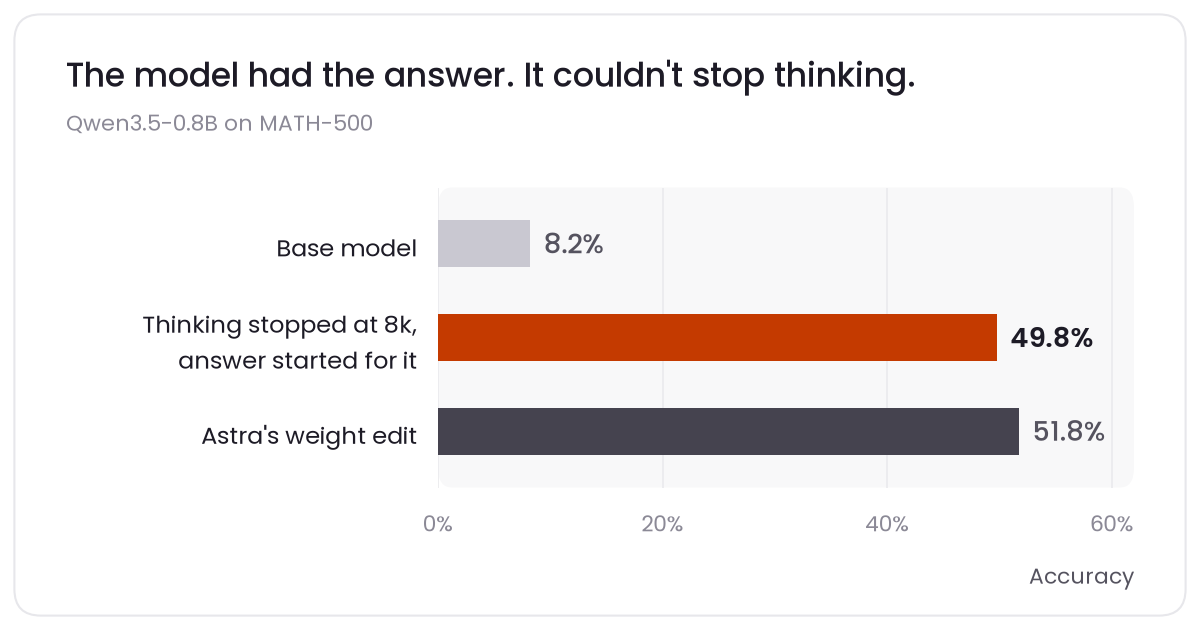
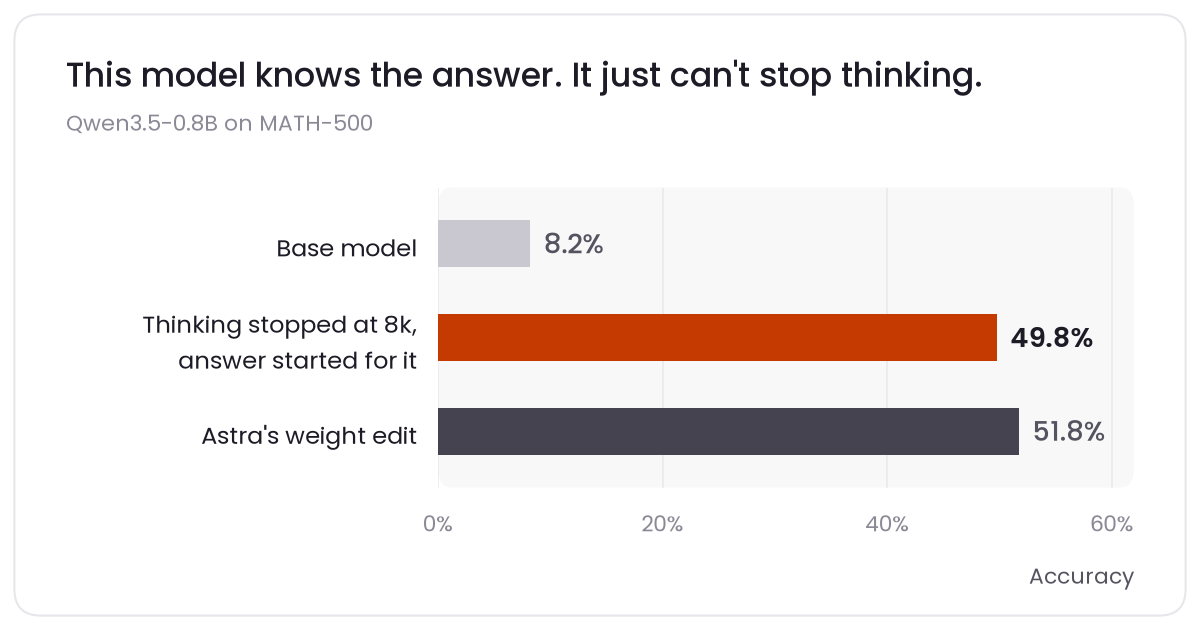
Retitle the stop-thinking post and render the trace math (#12)
The two quoted traces were code blocks, so their LaTeX showed as raw dollar signs. They are now quotes and the post opts in to MathJax.

Changed region(s): [[0.0925, 0.0905, 0.8325, 0.1508]]

diff --git a/_posts/2026-11-16-the-model-had-the-answer.md b/_posts/2026-11-16-the-model-had-the-answer.md
@@ -1,10 +1,11 @@
 ---
-title: "The model had the answer. It couldn't stop thinking."
+title: "This model knows the answer. It just can't stop thinking."
 date: 2026-11-16
-last_modified_at: 2026-11-16
+last_modified_at: 2026-11-17
 tags: [blog, nlp, reasoning, evaluation, interpretability]
 permalink: /the-model-had-the-answer/
 classes: ""
+mathjax: true
 excerpt: "A 0.8B reasoning model scores 8% on MATH-500, and a lot of the time the right answer is sitting in its own scratchpad. It just never stops thinking. Two weeks ago an AI agent got it to 48% by editing its weights. I spent a few days on why it loops, and got to about 50% by ending the thinking for it."
 header:
   teaser: /assets/images/stop-button/teaser.png
@@ -15,19 +16,16 @@ image: /assets/images/stop-button/teaser.png
 
 This is Qwen3.5-0.8B, about 4,000 tokens on an algebra problem.
 
-```text
-* $45 + 2 = 47$.
-* $47 - 5 = 42$.
-* $42 + 5 = 47$.
-* Okay, I am confident in 47.
-
-* Wait, I should check if there is any hidden trick.
-* Maybe the expression is $a \star b = 9a + 2b - ab + 5$.
-* Wait, let me check if the term is $-ab$ or $+ab$.
-    [...]
-* Wait, let me check if the term is $-ab$ or $+ab$.
-* Wait, let me check if the term is $-ab$ or $+ab$.
-```
+> * $45 + 2 = 47$.
+> * $47 - 5 = 42$.
+> * $42 + 5 = 47$.
+> * Okay, I am confident in 47.
+> * Wait, I should check if there is any hidden trick.
+> * Maybe the expression is $a \star b = 9a + 2b - ab + 5$.
+> * Wait, let me check if the term is $-ab$ or $+ab$.
+> * \[...\]
+> * Wait, let me check if the term is $-ab$ or $+ab$.
+> * Wait, let me check if the term is $-ab$ or $+ab$.
 
 And then it writes that last line again and again. For 28,000 more tokens,
 until the budget runs out. Since it never gives an answer it actually gets marked wrong. Even though it
@@ -175,10 +173,8 @@ thirds of the time it uses up all 4,096 tokens and never gives a boxed answer.
 I went and read a few to see why, and it's kind of funny: it starts over. For example, on
 the 47 problem:
 
-```text
-To find the value of $5 \star 1$, we need to substitute the values $a = 5$
-and $b = 1$ into the given expression for the operation $\star$.
-```
+> To find the value of $5 \star 1$, we need to substitute the values $a = 5$
+> and $b = 1$ into the given expression for the operation $\star$.
 
 So closing the tag ends the thinking, but the model still doesn't commit to what
 it already found. And a fresh attempt can loop all over again.
